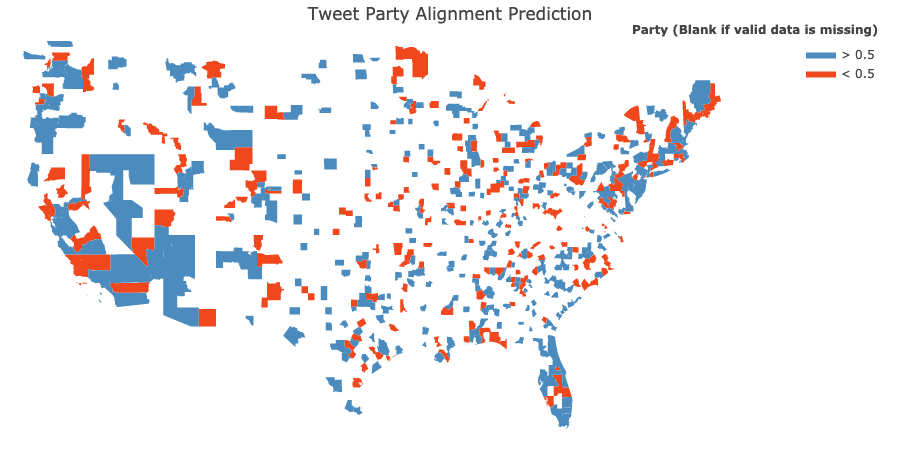
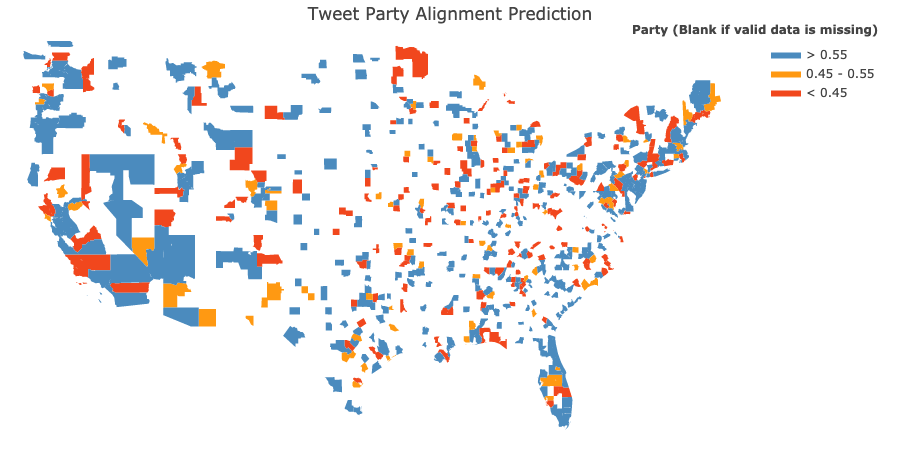
update create map

diff --git a/create_map.py b/create_map.py
@@ -8,8 +8,8 @@ import pandas as pd
 df_result = pd.read_csv('data/result/county_mean.csv').dropna()
 
 
-colorscale = ["#f1471d", "#4b8bbe"]
-endpts = [0.5]
+colorscale = ["#f1471d", "#FF9912", "#4b8bbe"]
+endpts = [0.45, 0.55]
 fips = df_result['FIPS'].tolist()
 values = df_result["Pred"].tolist()
 
